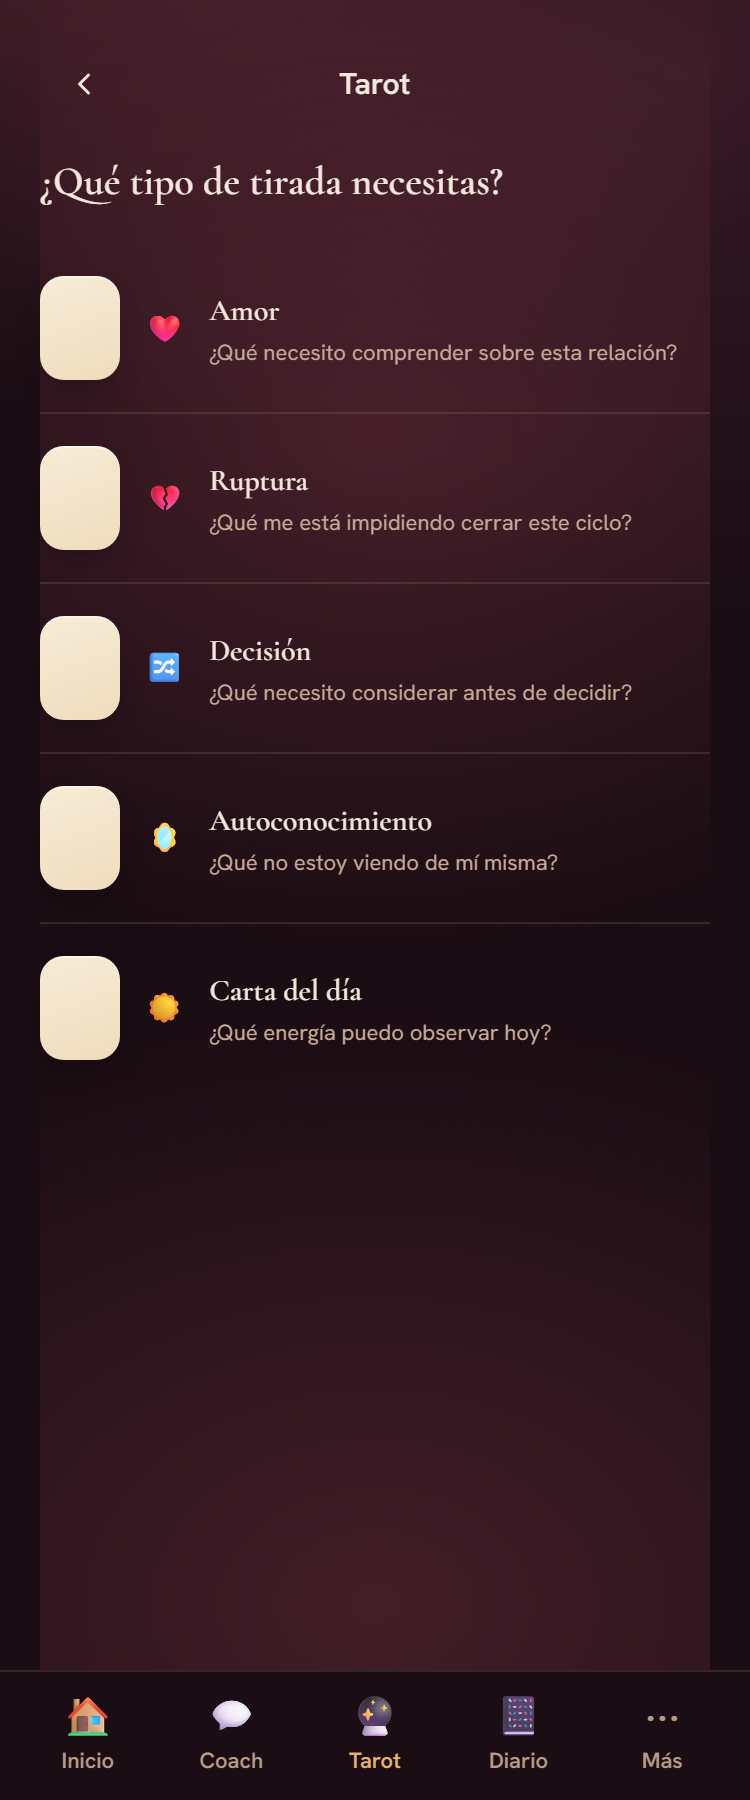
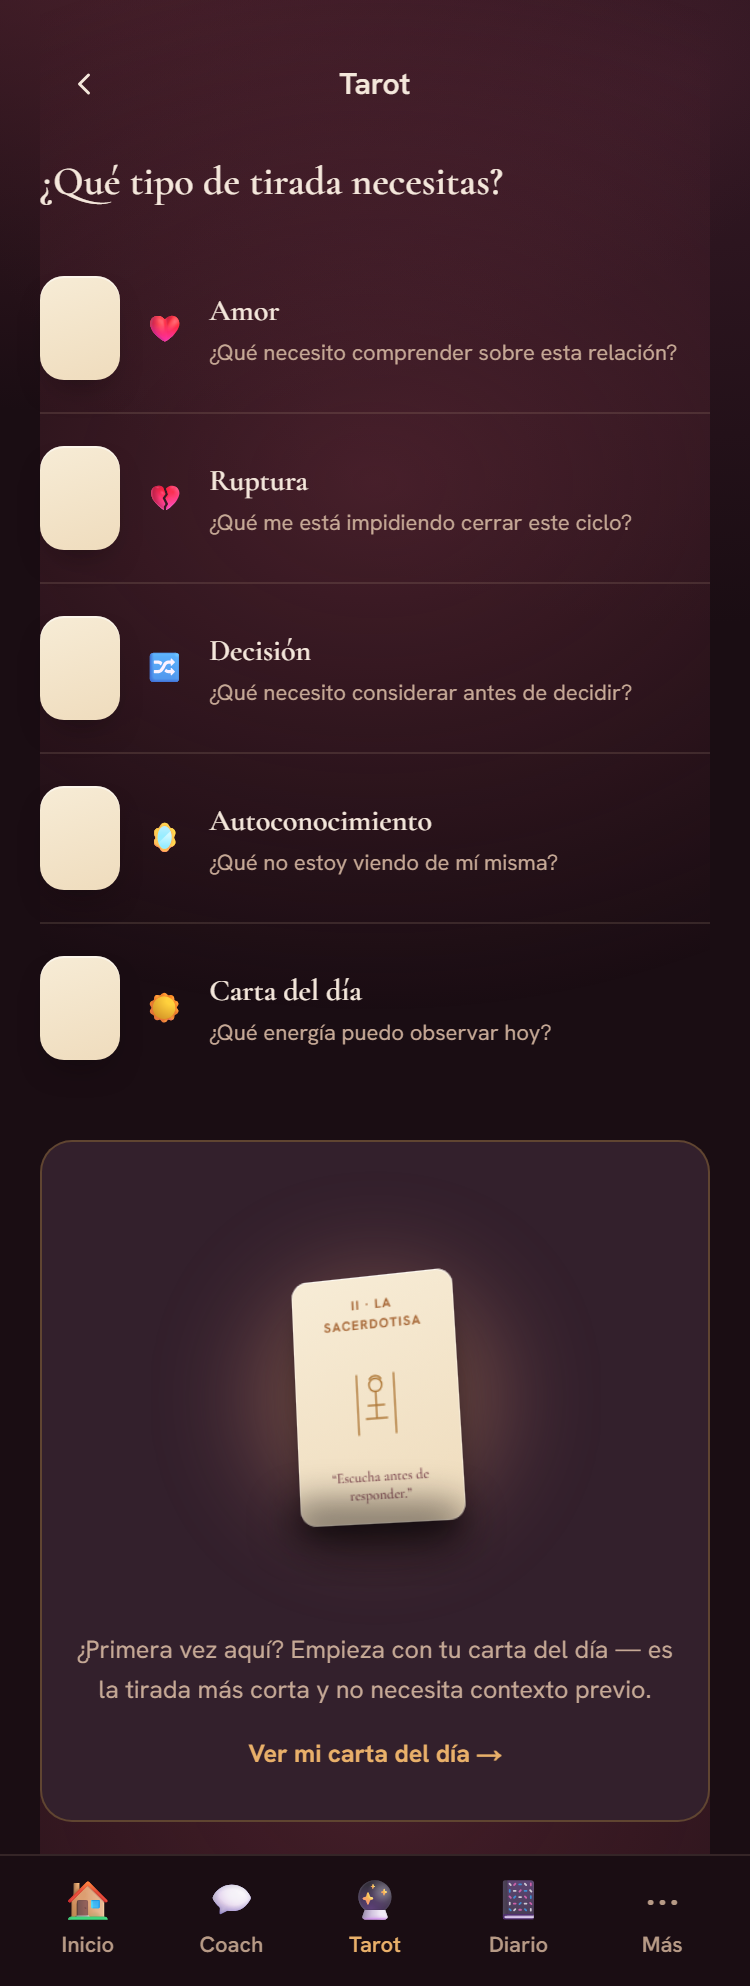
fix(sesion-5): tarot — agrega contenido real para usuario sin historial
Cuando no hay tirada previa guardada (el caso mas comun: usuaria
nueva), la franja baja de la pantalla mostraba solo el degradado sin
contenido — 3 rondas seguidas de solo ajustar el gradiente no lo
resolvian porque el problema era de densidad, no de color.

Agrega un teaser real con la carta del dia (mismo componente y datos
que ya usa "Carta del dia" en la lista) + una invitacion a abrirla
directamente, pensado para quien entra por primera vez sin saber por
donde empezar.

diff --git a/app/app/(tabs)/tarot/page.tsx b/app/app/(tabs)/tarot/page.tsx
@@ -148,6 +148,29 @@ export default function TarotPage() {
           );
         })}
       </motion.div>
+
+      {!abierta && !ultima && (
+        <motion.div
+          initial={{ opacity: 0, y: 8 }}
+          animate={{ opacity: 1, y: 0 }}
+          transition={{ delay: 0.3, duration: 0.3 }}
+          className="mt-6 flex flex-col items-center gap-3 rounded-[var(--radius-card)] border border-[color-mix(in_oklab,var(--accent)_28%,transparent)] bg-[var(--surface)] px-4 py-6 text-center"
+        >
+          <div className="scale-[0.6]">
+            <CartaSacerdotisa animar={false} numero={LECTURAS_TAROT['carta-del-dia'].numero} nombre={LECTURAS_TAROT['carta-del-dia'].nombre} cita={LECTURAS_TAROT['carta-del-dia'].cita} />
+          </div>
+          <p className="text-[12.5px] leading-relaxed text-[var(--text-secondary)]">
+            ¿Primera vez aquí? Empieza con tu carta del día — es la tirada más corta y no necesita contexto previo.
+          </p>
+          <button
+            type="button"
+            onClick={() => alternar('carta-del-dia')}
+            className="text-[12.5px] font-bold text-[var(--accent-lite)]"
+          >
+            Ver mi carta del día →
+          </button>
+        </motion.div>
+      )}
     </div>
   );
 }

diff --git a/docs/revisiones/tarot-veredicto.md b/docs/revisiones/tarot-veredicto.md
@@ -73,7 +73,7 @@ Diagnóstico general: los 3 defectos puntuales de la ronda 2 están cerrados o e
 
 TOP DEFECTOS (ronda 3):
 1. [Pantalla cerrada, franja ≈y:1050-1300px de 1567 totales] El bloom ya no corta en seco pero la franja sigue más apagada que el resto — techo alcanzado para un fix de gradiente. Fix: reemplazar el intento de "llenar con más glow" por una pieza de contenido real (ej. "Tu última tirada: Amor — hace 2 días" o un tip corto de una línea) en esa zona; deja de tocar el radial.
-2. [Heurística 7, código, pantalla completa] Ninguna de las 3 rondas agregó atajos/defaults: no hay recuerdo de última tirada, no hay pre-selección para el usuario recurrente. Sigue siendo la heurística más floja (2/4) y el techo real para subir usabilidad del bloque 27-32 al 36+. Fix: guardar en localStorage la última tirada consultada y ofrecer un chip "Repetir: Amor" o similar arriba de la lista.
+2. [Heurística 7, código, pantalla completa] Ninguna de las 3 rondas agregó atajos/defaults: no hay recuerdo de última tirada consultada, no hay pre-selección para el usuario recurrente. Sigue siendo la heurística más floja (2/4) y el techo real para subir usabilidad del bloque 27-32 al 36+. Fix: guardar en localStorage la última tirada consultada y ofrecer un chip "Repetir: Amor" o similar arriba de la lista.
 3. [Lista de 5 tiradas, decisión] 5 opciones en una sola decisión sigue un punto por encima de la guía "≤4 opciones antes de generar parálisis" del gate de carga cognitiva — no crítico aislado (no llega a las 4 fallas necesarias para gate crítico) pero suma fricción en una decisión emocional. No se tocó en ninguna ronda. Fix: agrupar "Amor"+"Ruptura" bajo una sub-etiqueta o dejarlo así si el dato de uso real muestra que las 5 se usan parejo.
 4. [Miniatura de carta, radio 12px, todas las filas] Resuelto en código (línea 68) pero sigue siendo el único elemento de la pantalla con un radio distinto (12 vs 14-16 del resto) — diferencia menor, ajuste fino no bloqueante, se puede dejar así o subir a 14 en una futura pasada de consistencia global.
 5. [Puente Tarot→Diario] Sin defectos nuevos — el banner + prellenado + botón "Guardar" con validación de vacío en Diario forman un flujo coherente de punta a punta. Se anota como resuelto, no como pendiente.
@@ -118,3 +118,42 @@ TOP DEFECTOS (ronda 4):
 Notas menores (no bloqueantes, heredadas de rondas previas):
 - Miniaturas de carta lisas sin glifo — coincide con el mockup aprobado.
 - Las 5 lecturas reutilizan el mismo glifo ilustrado de "La Sacerdotisa" — simplificación de V1 documentada.
+
+---
+
+## RONDA 5 (RE-REVISIÓN) — 2026-09-13
+Screenshot: docs/revisiones/tarot-375.png (lista cerrada, sin historial en este navegador — estado por defecto correcto)
+Usabilidad: 31/40
+Craft: 15/20
+Copy (si vende): N-A
+Fidelidad (si hubo referencia): N-A
+Veredicto: NO LISTA
+
+Detalle usabilidad: h1:3 h2:3 h3:3 h4:3 h5:3 h6:4 h7:3 h8:3 h9:3 h10:3
+Detalle craft: jerarquía:3 profundidad:3 identidad:3 movimiento:3 encaje:3
+
+Verificación del bug único reportado en la ronda 4 (`alternar()` no llamaba `setUltima(id)`):
+- CORREGIDO Y VERIFICADO EN CÓDIGO. Línea 48 del archivo actual: `setUltima(id);` vive dentro del bloque `if (abrir) { ... }` de `alternar()` (líneas 42-50), inmediatamente después de `window.localStorage.setItem(CLAVE_ULTIMA_TIRADA, id)`. El estado en memoria y el valor persistido ahora se actualizan en el mismo tick cada vez que se abre cualquier tirada — no solo al montar la página. El escenario que reportó la ronda 4 (abrir "Ruptura" y luego "Decisión" en la misma sesión, sin recargar) queda resuelto: el chip debe re-renderizar con el nuevo `ultima` de inmediato porque `TIRADAS_TAROT.find((t) => t.id === ultima)?.nombre` (línea 76) lee directo del state que ahora sí cambia. Sin regresiones: el `try/catch` alrededor del `localStorage.setItem` sigue intacto (líneas 43-47), y `setUltima(id)` se ejecuta fuera del `try` pero después de que este ya corrió — si `localStorage` falla (modo privado/cuota), el chip en memoria de todos modos se actualiza para la sesión actual, lo cual es correcto (mejor esfuerzo, consistente con el resto del archivo).
+- Screenshot de cierre (navegador limpio, sin `luma_ultima_tirada`): el chip NO aparece — coincide exactamente con el comportamiento esperado y con las capturas de rondas 2-4. No hay regresión visual.
+
+Impacto en las puntuaciones:
+- h1 (visibilidad del estado del sistema) se mantiene en 3. El bug corregido era real pero de bajo disparo (solo visible si el usuario abre una segunda tirada distinta en la misma sesión y vuelve a mirar el chip) y las rondas anteriores ya lo habían tratado como un matiz que no bajaba el número por sí solo — corregirlo cierra un riesgo de regresión futura y es higiene de código correcta, pero no había estado empujando la pantalla a un nivel "ejemplar" que ahora se alcance; sigue habiendo otros huecos de feedback más visibles (franja baja sin contenido) que mantienen el techo en 3.
+- h7 (flexibilidad y eficiencia) se mantiene en 3, NO sube a 4. La ronda 4 ya había fijado el techo de h7 en 3 por DOS razones: el bug de reactividad Y que el atajo cubre un solo caso (no hay, p. ej., accesos directos por tipo de tirada más frecuente ni más de un default inteligente). Esta ronda resuelve la primera razón pero no la segunda, así que el heurístico no cruza a "ejemplar, decil superior" — sigue siendo "bien, solo un ojo entrenado nota qué falta".
+- Craft y el resto de heurísticas: sin cambios de código que los afecten; se mantienen en los valores de la ronda 4.
+
+Verificación del defecto estructural (franja baja sin historial, fuera de alcance esta ronda por decisión explícita):
+El screenshot entregado (navegador limpio, sin `luma_ultima_tirada`) confirma que el chip correctamente NO aparece y que la franja baja de la pantalla cerrada sigue exactamente igual a las rondas 2-4: perceptiblemente más apagada y sin ninguna pieza de contenido propia para el usuario de primera sesión. Esto es fiel a lo declarado por el equipo — no se tocó esta ronda — y sigue siendo el defecto que sostiene tanto h8 como el eje de craft "profundidad" en 3/4 y 3/4 respectivamente.
+
+TOP DEFECTOS (ronda 5):
+1. [Pantalla cerrada, franja ≈y:1050-1300px de 1567 — escenario sin historial, el más común en cualquier usuario nuevo] Techo estructural confirmado en 4 rondas consecutivas (2, 3, 4 y 5): el chip de la ronda 3-4 nunca la toca por diseño (solo aparece con historial), y ningún cambio de contenido se ha aplicado a esa zona para el caso sin historial. Fix: agregar una pieza de contenido real ahí para el usuario sin tiradas previas (ej. un tip corto o una franja "sugerido para ti"), no un ajuste más de gradiente.
+2. [Lista de 5 tiradas, decisión — heredado de rondas 3-4] Sigue un punto por encima de la guía de ≤4 opciones; no se tocó en ninguna ronda hasta ahora.
+3. [Chip "Repetir tu última tirada", caso ultima = primera tirada de la lista — heredado de ronda 4] Redundancia menor sin ser error: el chip puede quedar encima de la misma fila visible un scroll más abajo.
+4. [Miniatura de carta, radio 12px — heredado de rondas 3-4] Sigue siendo el único radio fuera de familia (12 vs 14-16 del resto de superficies); ajuste fino no bloqueante.
+5. [Bug de reactividad de `alternar()` — heredado de ronda 4] Sin defectos nuevos: RESUELTO Y VERIFICADO en código esta ronda, sin regresiones. Se anota como cerrado, no como pendiente.
+
+Notas menores (no bloqueantes, heredadas de rondas previas):
+- Miniaturas de carta lisas sin glifo — coincide con el mockup aprobado.
+- Las 5 lecturas reutilizan el mismo glifo ilustrado de "La Sacerdotisa" — simplificación de V1 documentada.
+
+¿Corresponde cerrar esta pantalla con criterio propio en esta ronda?
+No. El fix puntual que se pidió está genuinamente resuelto y verificado — pero a diferencia de Coach (que en su ronda 4 ya había cruzado el gate propio de craft, 16/20, con la usabilidad dispersa en matices de accesibilidad de bajo impacto) o de Diario (que llegó a 35/40 y 15/20, a exactamente 1 punto de cada gate), Tarot se queda en 31/40 y 15/20 — 5 puntos por debajo del gate de usabilidad y 1 por debajo del de craft, la MISMA distancia que tenía antes de esta ronda. La razón es simple: el defecto que domina el techo actual (franja baja sin contenido para el caso sin historial, que sostiene h8 y "profundidad" en 3/4) es el mismo que las rondas 2, 3 y 4 ya diagnosticaron sin resolver, y esta ronda —correctamente— no lo tocó porque no era su alcance. Cerrar por "rendimientos decrecientes" aplica cuando lo que queda son matices dispersos de bajo impacto (el patrón de Coach/Diario); aquí lo que queda es UN defecto concreto, accionable y de impacto claro (afecta directamente h8 y el eje de profundidad, y es visible para cualquier usuario de primera sesión, no solo "quien mira con lupa"). El veredicto formal se mantiene NO LISTA porque el gate numérico (≥36/40 y ≥16/20) no se cumple — pero, a diferencia de rondas anteriores, ya no queda ambigüedad sobre cuál es el único punto que falta: una ronda dirigida EXCLUSIVAMENTE a poblar esa franja baja con contenido real (no gradiente) para el caso sin historial es la vía más corta para cruzar ambos gates. Si tras esa ronda dirigida el total se estanca de nuevo por debajo de 36/20 pese a resolver ese punto, ahí sí correspondería evaluar el cierre por criterio propio, como se hizo en Coach.
